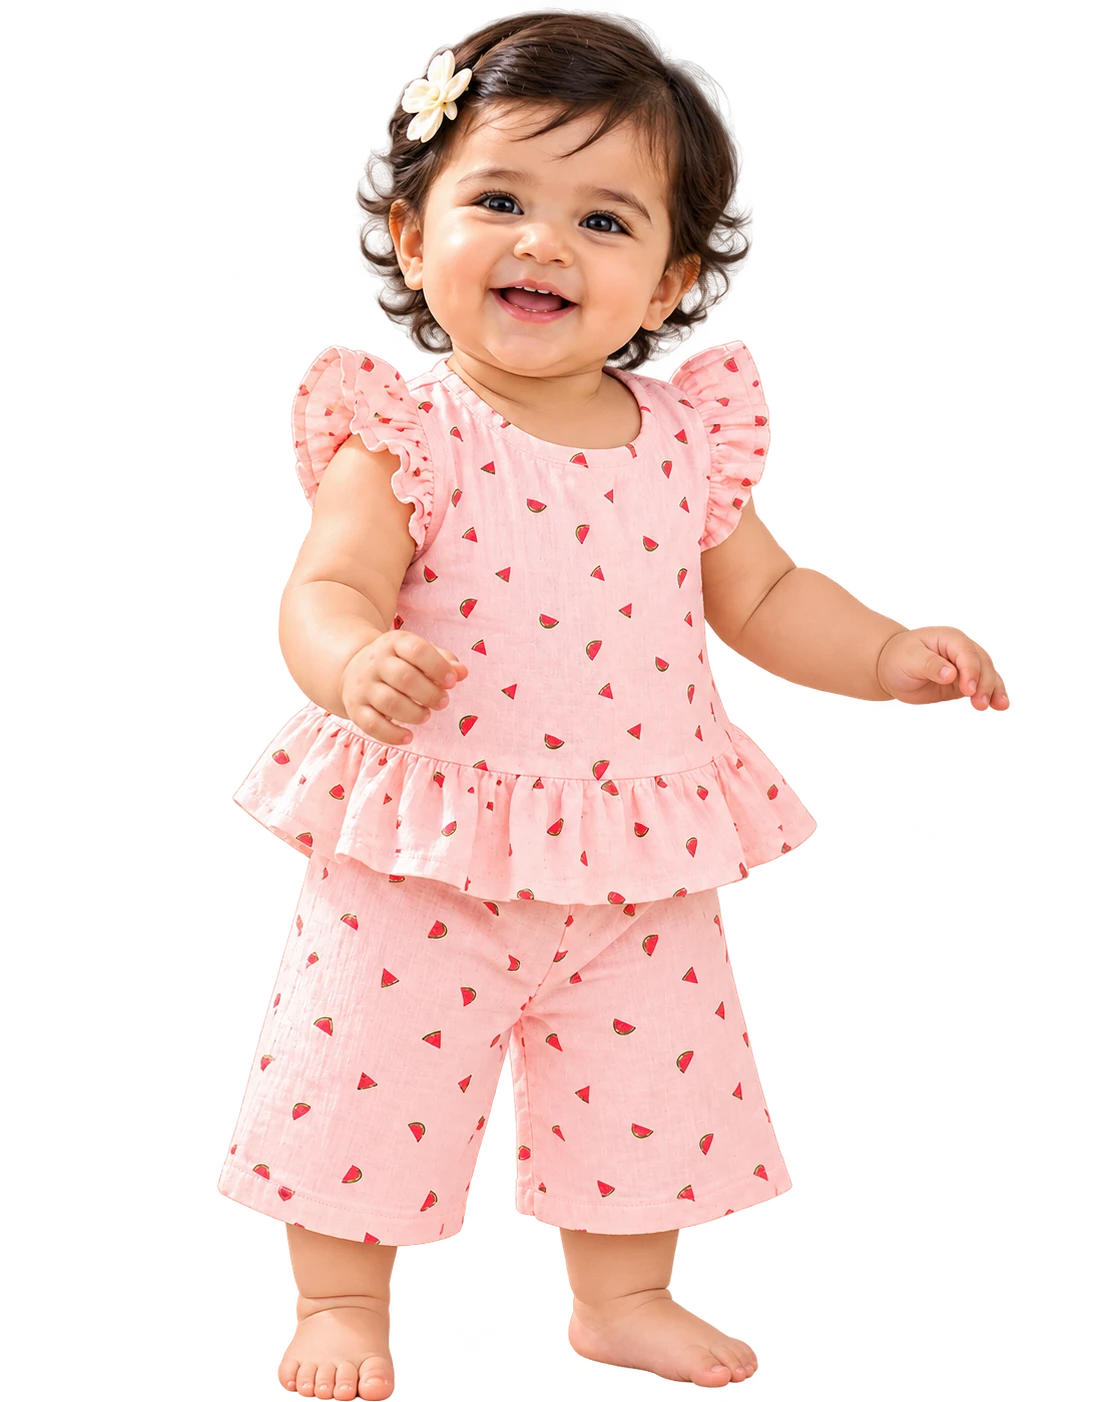
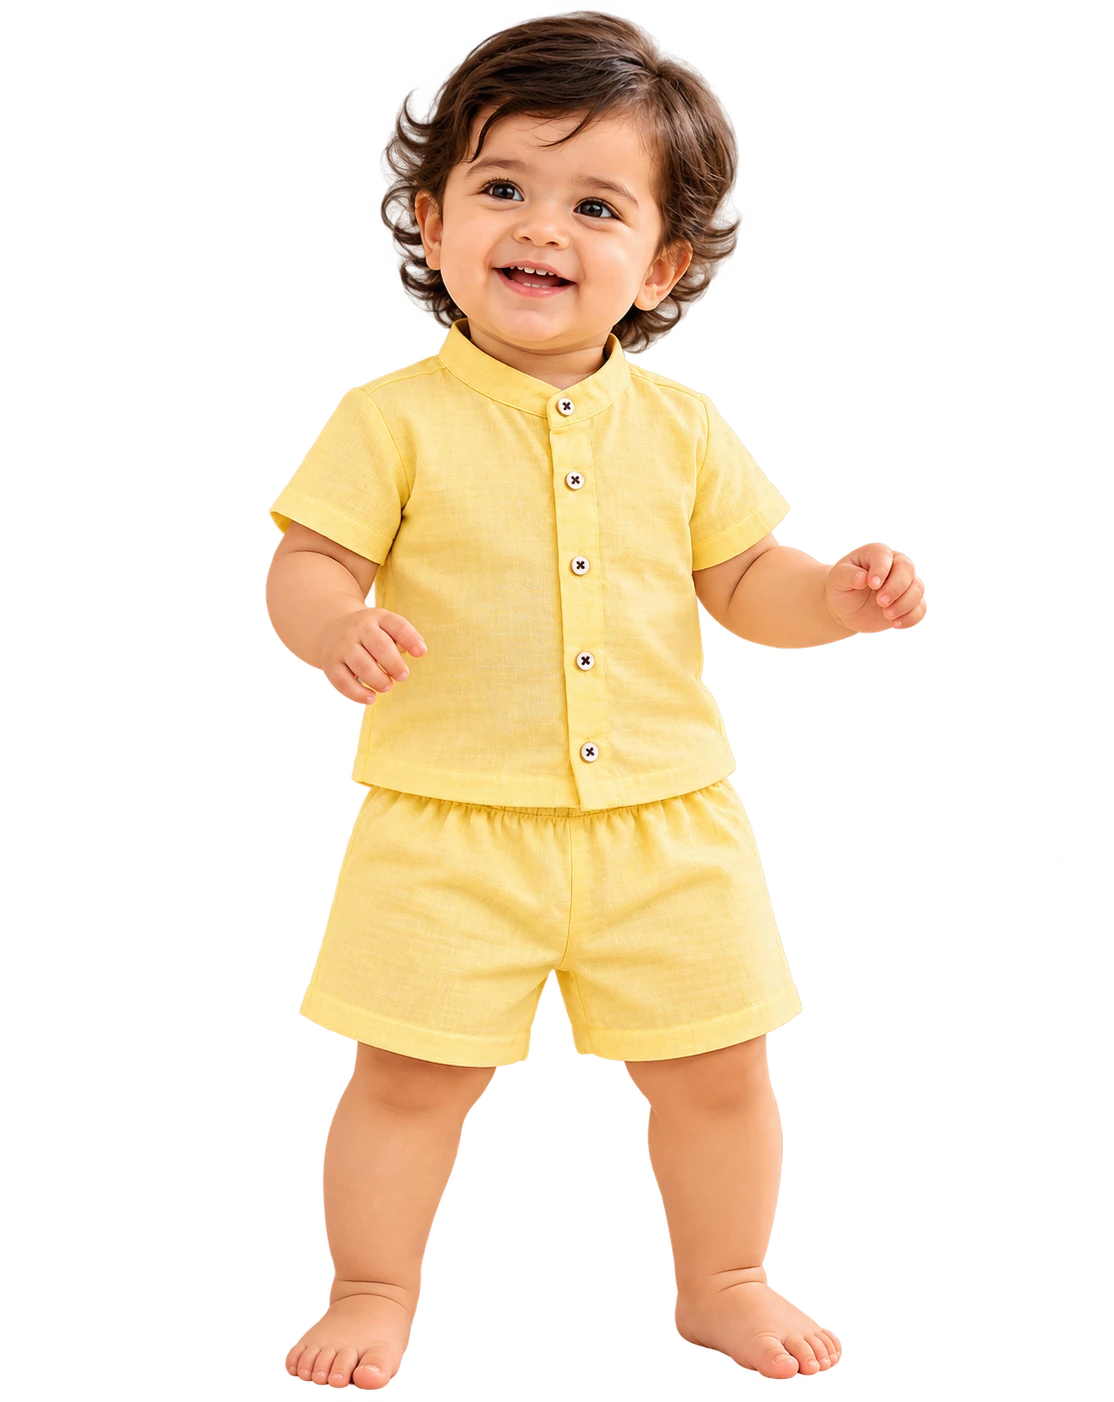
New Order to make roadmap design

diff --git a/components/Testimonials.tsx b/components/Testimonials.tsx
@@ -1,96 +1,89 @@
 import { Reveal } from "./Reveal";
 
-// Parent testimonials for the About page.
+// Parent reviews, shown as cards that glide slowly across the screen (they
+// pause while someone hovers over them to read).
 //
-// Put only REAL reviews in REVIEWS, in the parent's own words and with their
+// Put only REAL reviews here, in the parent's own words and with their
 // permission. Invented reviews mislead buyers and are against India's
 // consumer protection rules.
-//
-// While REVIEWS is empty, the section shows the sample cards below so the
-// layout can be designed, but ONLY on your own computer (npm run dev). On the
-// live site nothing is shown until real reviews are added.
 
-type Review = { quote: string; name: string; detail: string };
+type Review = { title: string; quote: string; name: string; detail: string };
 
 const REVIEWS: Review[] = [
   {
-    quote: "So soft for my little princess! I ordered a cute little dress for my baby girl, and I'm in love! The fabric is super soft, the colours are beautiful, and my little one looks like an angel. Thank you, Veviba! 💕",
+    title: "So soft and comfy ❤",
+    quote: "The fabric is incredibly soft, and my baby looks so cute in her new dress! Absolutely loved the quality.",
     name: "Anitha",
-    detail: "Mum to a baby girl",
+    detail: "Mum to a baby boy",
   },
   {
-    quote: "My baby's new favourite outfit! Such a lovely dress! The material feels so gentle on my baby's skin. She looks absolutely adorable, and I couldn't stop taking pictures. Definitely ordering more! 🥰",
+    title: "Just adorable!",
+    quote: "Such a pretty little outfit! The colours are lovely, and the fit is perfect for my princess.",
     name: "Suguna",
     detail: "Mum to a baby girl",
   },
   {
-    quote: "Totally worth it! Bought this for my little princess, and it's even prettier than I expected! The stitching is neat, the fabric is soft, and the fit is just perfect. So happy with my purchase! 🌸",
+    title: "Loved every detail!",
+    quote: "Beautiful prints and super gentle fabric! My little girl looks absolutely adorable in her new outfit.",
     name: "Shalini",
-    detail: "Mum to a baby girl",
+    detail: "Mum to a baby boy",
+  },
+  {
+    title: "Perfect for my little one ❤",
+    quote: "The dress is lightweight, soft, and so comfortable. My baby looks extra cute wearing it!",
+    name: "Divya",
+    detail: "Mum to a baby boy",
   },
 ];
 
-// Preview text for designing the layout; never shown on the live site.
-const SAMPLES: Review[] = [
-  {
-    quote: "So soft for my little princess! I ordered a cute little dress for my baby girl, and I'm in love! The fabric is super soft, the colours are beautiful, and my little one looks like an angel. Thank you, Veviba! 💕",
-    name: "Parent name",
-    detail: "Mum to a baby girl",
-  },
-  {
-    quote: "My baby's new favourite outfit! Such a lovely dress! The material feels so gentle on my baby's skin. She looks absolutely adorable, and I couldn't stop taking pictures. Definitely ordering more! 🥰",
-    name: "Parent name",
-    detail: "Mum to a baby girl",
-  },
-  {
-    quote: "Totally worth it! Bought this for my little princess, and it's even prettier than I expected! The stitching is neat, the fabric is soft, and the fit is just perfect. So happy with my purchase! 🌸",
-    name: "Parent name",
-    detail: "Mum to a baby girl",
-  },
-];
+const TINTS = ["#DFE7DD", "#F3D8C8", "#DCE6EE", "#F1E7BC"];
 
-const TINTS = ["#DFE7DD", "#F3D8C8", "#DCE6EE"];
+function Card({ r, i }: { r: Review; i: number }) {
+  return (
+    <figure className="mx-2.5 flex w-[18rem] shrink-0 flex-col rounded-[1.75rem] border border-line bg-paper p-6 sm:mx-3 sm:w-[22rem] sm:p-7">
+      <div className="flex items-center gap-3">
+        <span
+          className="grid h-10 w-10 shrink-0 place-items-center rounded-xl font-display text-2xl leading-none"
+          style={{ background: TINTS[i % TINTS.length] }}
+          aria-hidden
+        >
+          “
+        </span>
+        <span className="text-sm tracking-widest text-[#E0A33A]" aria-label="5 stars">★★★★★</span>
+      </div>
+      <p className="mt-4 font-display text-xl leading-snug tracking-tight">{r.title}</p>
+      <blockquote className="mt-2 flex-1 text-[0.95rem] leading-relaxed text-ink-soft">{r.quote}</blockquote>
+      <figcaption className="mt-5 border-t border-line pt-4">
+        <p className="font-bold">{r.name}</p>
+        <p className="text-sm text-ink-soft">{r.detail}</p>
+      </figcaption>
+    </figure>
+  );
+}
 
 export function Testimonials({ inline = false }: { inline?: boolean }) {
-  const isSample = REVIEWS.length === 0;
-  if (isSample && process.env.NODE_ENV === "production") return null;
-  const cards = isSample ? SAMPLES : REVIEWS;
+  if (REVIEWS.length === 0) return null;
+  // Two copies side by side make the loop seamless.
+  const loop = [...REVIEWS, ...REVIEWS];
 
   return (
-    <section className={inline ? "mt-16 sm:mt-28" : "shell pb-20 sm:pb-28"}>
+    <section className={inline ? "mt-16 sm:mt-28" : "py-16 sm:py-24"}>
       <Reveal className="text-center">
         <p className="eyebrow">From our parents</p>
         <h2 className="mt-3 font-display text-4xl tracking-tight sm:text-5xl">
           Little words of <em className="text-sage-deep">love</em>
         </h2>
-        {isSample && (
-          <p className="mx-auto mt-4 w-fit rounded-full bg-peach/60 px-4 py-1.5 text-xs font-bold">
-            Layout preview: sample text, only visible on your computer
-          </p>
-        )}
       </Reveal>
 
-      <div className="mt-10 grid gap-4 md:grid-cols-3 md:gap-6">
-        {cards.map((r, i) => (
-          <Reveal key={i} delay={i * 0.12}>
-            <figure className="flex h-full flex-col rounded-[1.75rem] border border-line bg-paper p-6 sm:p-8">
-              <span
-                className="grid h-11 w-11 place-items-center rounded-2xl font-display text-2xl leading-none sm:h-14 sm:w-14 sm:text-3xl"
-                style={{ background: TINTS[i % TINTS.length] }}
-                aria-hidden
-              >
-                “
-              </span>
-              <blockquote className="mt-5 flex-1 font-display text-xl leading-snug tracking-tight sm:text-2xl">
-                {r.quote}
-              </blockquote>
-              <figcaption className="mt-6">
-                <p className="font-bold">{r.name}</p>
-                <p className="text-sm text-ink-soft">{r.detail}</p>
-              </figcaption>
-            </figure>
-          </Reveal>
-        ))}
+      <div
+        className="group relative mt-10 overflow-hidden [mask-image:linear-gradient(to_right,transparent,black_6%,black_94%,transparent)]"
+        aria-label="Reviews from parents"
+      >
+        <div className="anim-marquee flex w-max py-2 group-hover:[animation-play-state:paused]" style={{ animationDuration: "45s" }}>
+          {loop.map((r, i) => (
+            <Card key={i} r={r} i={i % REVIEWS.length} />
+          ))}
+        </div>
       </div>
     </section>
   );

diff --git a/components/home/Journey.tsx b/components/home/Journey.tsx
@@ -21,8 +21,8 @@ const STEPS = [
 // Thread geometry for the wide layout (viewBox 700 x 300): stops alternate
 // low and high, so labels sit above the high ones and below the low ones.
 const W = 700;
-const HIGH = 110;
-const LOW = 190;
+const HIGH = 60;
+const LOW = 135;
 const pts = STEPS.map((_, i) => ({ x: (i + 0.5) * (W / STEPS.length), y: i % 2 ? HIGH : LOW }));
 const thread = pts.reduce((d, p, i) => {
   if (i === 0) return `M ${p.x} ${p.y}`;
@@ -47,7 +47,7 @@ export function Journey() {
       </Reveal>
 
       {/* ── Wide screens: the stitched-thread roadmap ── */}
-      <div className="relative mx-auto mt-10 hidden h-[19rem] max-w-6xl lg:block">
+      <div className="relative mx-auto mt-12 hidden h-[19.5rem] max-w-6xl lg:block">
         {/* The whole thread is always drawn end to end; it's revealed left to
             right as the section scrolls in, so it can never stop part-way. */}
         <motion.svg
@@ -73,7 +73,6 @@ export function Journey() {
 
         {STEPS.map((s, i) => {
           const p = pts[i];
-          const high = p.y === HIGH;
           return (
             <motion.div
               key={s.title}
@@ -84,15 +83,18 @@ export function Journey() {
               viewport={{ once: true, margin: "-10% 0px" }}
               transition={{ duration: 0.6, delay: 0.25 + i * 0.22, ease }}
             >
-              {/* the stop itself, centred on the thread */}
+              {/* Each day is its own bordered box; its icon sits on the thread */}
               <div
-                className="absolute left-1/2 top-0 grid h-14 w-14 -translate-x-1/2 -translate-y-1/2 place-items-center rounded-2xl border-4 border-cream text-2xl shadow-[0_8px_20px_-10px_rgba(38,59,54,0.45)]"
-                style={{ background: s.tint, rotate: i % 2 ? "6deg" : "-6deg" }}
+                className={`relative rounded-[1.25rem] border-2 bg-paper px-3 pb-4 pt-9 shadow-[0_10px_24px_-16px_rgba(38,59,54,0.45)] ${
+                  i === STEPS.length - 1 ? "border-sage-deep" : "border-line"
+                }`}
               >
-                <span style={{ rotate: i % 2 ? "-6deg" : "6deg" }}>{s.emoji}</span>
-              </div>
-              {/* label above the high stops, below the low ones */}
-              <div className={`absolute inset-x-0 ${high ? "bottom-10" : "top-10"}`}>
+                <div
+                  className="absolute left-1/2 top-0 grid h-12 w-12 -translate-x-1/2 -translate-y-1/2 place-items-center rounded-2xl border-4 border-cream text-xl shadow-[0_8px_20px_-10px_rgba(38,59,54,0.45)]"
+                  style={{ background: s.tint }}
+                >
+                  {s.emoji}
+                </div>
                 <p className="text-[0.7rem] font-extrabold uppercase tracking-[0.2em] text-sage-deep">Day {i + 1}</p>
                 <p className="mt-0.5 font-display text-lg leading-tight tracking-tight">{s.title}</p>
                 <p className="mt-1 text-xs leading-snug text-ink-soft">{s.body}</p>

diff --git a/components/shop/ProductDetail.tsx b/components/shop/ProductDetail.tsx
@@ -6,7 +6,7 @@ import { useLenis } from "lenis/react";
 import { useEffect, useRef, useState } from "react";
 import { defaultColour } from "@/lib/colours";
 import { isStudioShot } from "@/lib/photo";
-import { CATEGORY_LABELS, DELIVERY_DAYS, STORE, deliveryBy, inr, isSoldOut, shippingIsFree } from "@/lib/store";
+import { CATEGORY_LABELS, DELIVERY_DAYS, STORE, deliveryBy, inr, isSoldOut, percentOff, shippingIsFree } from "@/lib/store";
 import type { Product } from "@/lib/types";
 import { FlowerMark } from "../art/FlowerMark";
 import { Garment } from "../art/Garment";
@@ -266,6 +266,11 @@ export function ProductDetail({ product }: { product: Product }) {
         <p className="mt-3 font-display text-[1.75rem] sm:mt-5 sm:text-4xl">
           {inr(product.price)}
           {product.compareAt && <s className="ml-3 text-xl text-ink-soft">{inr(product.compareAt)}</s>}
+          {percentOff(product.price, product.compareAt) > 0 && (
+            <span className="ml-3 rounded-full bg-[#F7DCD3] px-2.5 py-1 align-middle text-sm font-extrabold text-[#A9442F]">
+              {percentOff(product.price, product.compareAt)}% off
+            </span>
+          )}
         </p>
 
         {product.colours.length > 1 && (

diff --git a/lib/store.ts b/lib/store.ts
@@ -19,7 +19,7 @@ export const STORE = {
   shippingFlat: 29,
   freeShippingAbove: Number(process.env.NEXT_PUBLIC_FREE_SHIPPING_ABOVE ?? 1499),
   codFee: 7,
-  instagram: "https://instagram.com/",
+  instagram: "https://www.instagram.com/veviba.baby",
   // The shop's one email address, used everywhere on the site: shown to
   // customers, and where every new-order email is sent.
   email: "veviba2026@gmail.com",
@@ -95,6 +95,12 @@ export function phoneDigits(raw: string) {
 /** The struck-out price shown beside every product: 10% above the selling
  *  price, rounded up to end in 9 (₹349 -> ₹389, ₹199 -> ₹219).
  *  A product with its own "compare at" price set in the admin panel uses that. */
+/** How much cheaper than the struck-out price, as a whole percentage (e.g. 10). */
+export function percentOff(price: number, compareAt: number | null | undefined): number {
+  if (!compareAt || compareAt <= price) return 0;
+  return Math.round(((compareAt - price) / compareAt) * 100);
+}
+
 export function listPrice(price: number): number {
   return Math.ceil((price * 1.1) / 10) * 10 - 1;
 }

diff --git a/components/shop/ProductCard.tsx b/components/shop/ProductCard.tsx
@@ -4,7 +4,7 @@ import Link from "next/link";
 import { AnimatePresence, motion } from "motion/react";
 import { useState } from "react";
 import { isStudioShot } from "@/lib/photo";
-import { inr, isSoldOut } from "@/lib/store";
+import { inr, isSoldOut, percentOff } from "@/lib/store";
 import type { Product } from "@/lib/types";
 import { Garment } from "../art/Garment";
 import { BagIcon } from "../Navbar";
@@ -133,6 +133,9 @@ export function ProductCard({ product, wide = false }: { product: Product; wide?
         <p className="mt-1.5 font-bold">
           {inr(product.price)}
           {product.compareAt && <s className="ml-1.5 text-sm font-normal text-ink-soft">{inr(product.compareAt)}</s>}
+          {percentOff(product.price, product.compareAt) > 0 && (
+            <span className="ml-1.5 text-xs font-extrabold text-[#C0563F]">{percentOff(product.price, product.compareAt)}% off</span>
+          )}
         </p>
       </Link>
     </div>

diff --git a/app/about/page.tsx b/app/about/page.tsx
@@ -1,21 +1,7 @@
-import type { Metadata } from "next";
-import Link from "next/link";
-import { Story } from "@/components/home/Story";
-import { storyImage } from "@/lib/images";
+import { redirect } from "next/navigation";
 
-export const metadata: Metadata = { title: "About" };
-
+// There is no separate About page any more: the story lives on the home page.
+// Old links to /about land there instead of on a "not found" page.
 export default function AboutPage() {
-  return (
-    <div className="speckle">
-      <div className="pt-16">
-        <Story photo={storyImage()} heading="h1" />
-      </div>
-      <div className="-mt-10 pb-24 text-center sm:-mt-16">
-        <Link href="/shop" className="btn-primary">
-          Shop the collection →
-        </Link>
-      </div>
-    </div>
-  );
+  redirect("/#story");
 }

diff --git a/app/sitemap.ts b/app/sitemap.ts
@@ -6,7 +6,7 @@ import { publicSiteUrl } from "@/lib/site";
 // Built on request: the product list lives in the database, which the build can't reach.
 export const dynamic = "force-dynamic";
 
-const PAGES = ["/", "/shop", "/about", "/contact", "/track", "/policies/shipping", "/policies/returns", "/policies/privacy", "/policies/terms"];
+const PAGES = ["/", "/shop", "/contact", "/track", "/policies/shipping", "/policies/returns", "/policies/privacy", "/policies/terms"];
 
 export default async function sitemap(): Promise<MetadataRoute.Sitemap> {
   const site = publicSiteUrl();

diff --git a/components/home/Marquee.tsx b/components/home/Marquee.tsx
@@ -19,7 +19,7 @@ export function Marquee() {
     // scroll sideways by a pixel. Clipping only the sides keeps the tilt intact.
     <div className="relative z-10 overflow-x-clip">
       <div className="-rotate-1 overflow-hidden bg-ink py-4 text-paper">
-        <div className="anim-marquee flex w-max">
+        <div className="anim-marquee flex w-max" style={{ animationDuration: "90s" }}>
           {[0, 1].map((k) => (
             <div key={k} className="flex shrink-0 items-center" aria-hidden={k === 1}>
               {row.map((t, i) => (

diff --git a/app/contact/page.tsx b/app/contact/page.tsx
@@ -27,7 +27,7 @@ export default function ContactPage() {
     {
       title: "Instagram",
       body: "New arrivals, little moments and offers first.",
-      cta: "Follow us",
+      cta: "@veviba.baby",
       href: STORE.instagram,
       tint: "#DCE6EE",
       icon: <span className="text-lg">📸</span>,

diff --git a/components/Navbar.tsx b/components/Navbar.tsx
@@ -16,7 +16,6 @@ const LEFT = [
   { href: "/shop", label: "Shop" },
 ];
 const RIGHT = [
-  { href: "/about", label: "About" },
   { href: "/contact", label: "Contact" },
 ];
 
